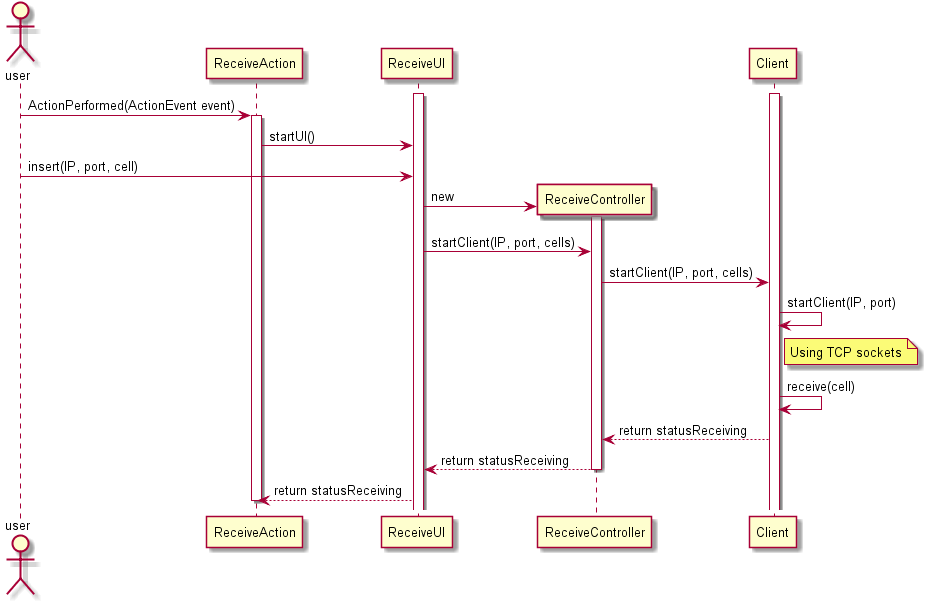
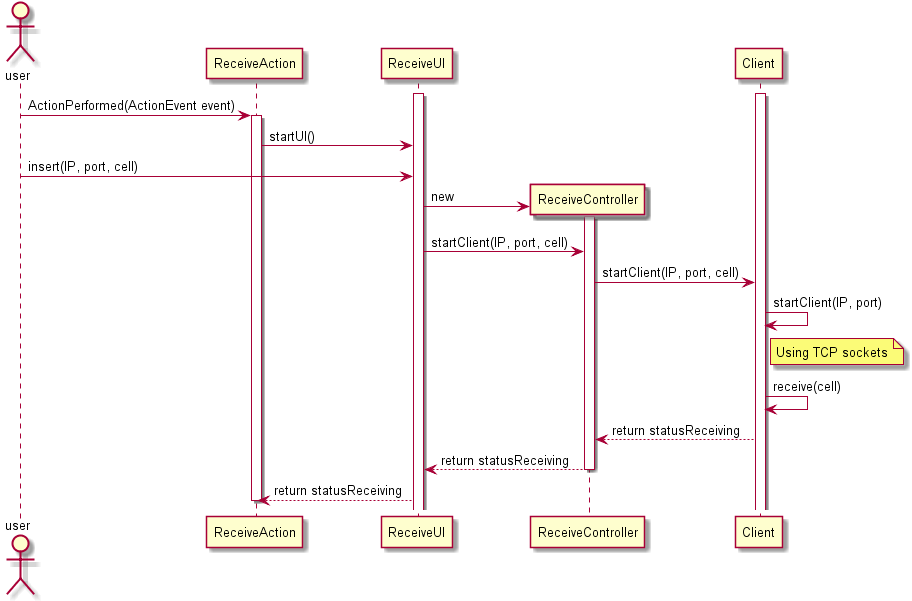
1100859: Updated sequence diagram (client) ref #2

diff --git a/src/csheets/ext/share/package-info.java b/src/csheets/ext/share/package-info.java
@@ -190,8 +190,8 @@
  Create rc
  rui -> rc : new
  activate rc
- rui -> rc : startClient(IP, port, cells)
- rc -> cli : startClient(IP, port, cells)
+ rui -> rc : startClient(IP, port, cell)
+ rc -> cli : startClient(IP, port, cell)
  cli -> cli : startClient(IP, port)
  note right cli
  Using TCP sockets
